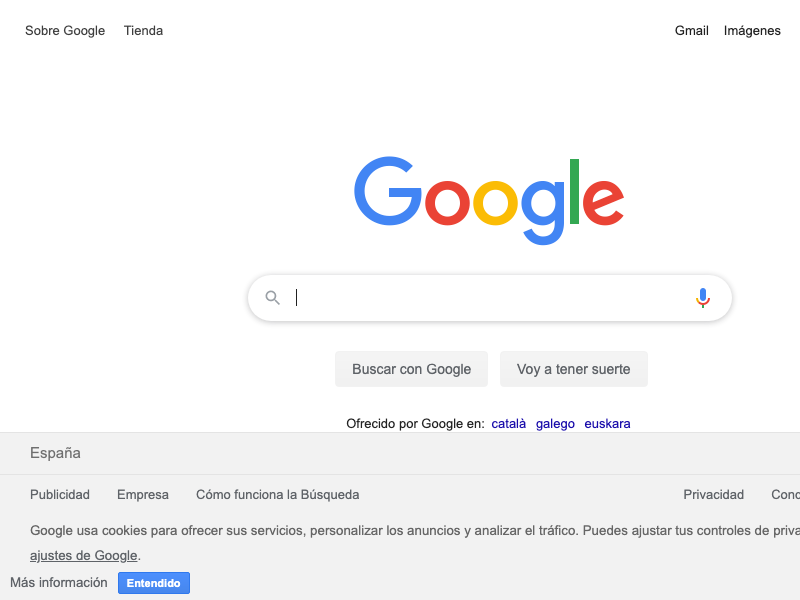
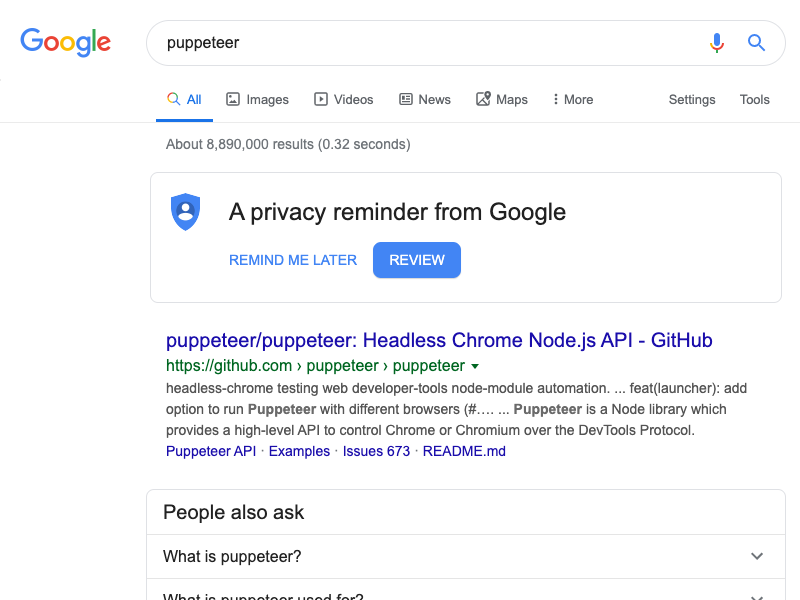
added puppeteerSearchResultsScreenshot function

diff --git a/index.js b/index.js
@@ -6,7 +6,10 @@ const {
 } = require("./imdb");
 const { login } = require("./toscrape");
 const { getInstagramUserJSON } = require("./instagram");
-const { puppeteerScreenshot } = require("./puppeteer");
+const {
+  puppeteerScreenshot,
+  puppeteerSearchResultsScreenshot
+} = require("./puppeteer");
 
 // const URLS = [
 //   "https://www.imdb.com/title/tt4047350/?ref_=nv_sr_srsg_0",
@@ -23,4 +26,9 @@ const { puppeteerScreenshot } = require("./puppeteer");
 
 // getInstagramUserJSON("willsmith").then(console.log);
 
-puppeteerScreenshot("www.google.com", "googleMainPage.png");
+puppeteerSearchResultsScreenshot(
+  "www.google.com",
+  "googlePuppeteerSearchResults.png",
+  'input[aria-label="Search"]',
+  "puppeteer"
+);

diff --git a/puppeteer/puppeteer.js b/puppeteer/puppeteer.js
@@ -9,6 +9,26 @@ const puppeteerScreenshot = async (url, fileName) => {
   await browser.close();
 };
 
+const puppeteerSearchResultsScreenshot = async (
+  url,
+  fileName,
+  selector,
+  inputValue
+) => {
+  const browser = await puppeteer.launch({ headless: false, devtools: true });
+
+  const page = await browser.newPage();
+  await page.goto(`https://${url}`);
+
+  await page.type(selector, inputValue, { delay: 100 });
+  await page.keyboard.press("Enter");
+  await page.waitForNavigation();
+  await page.screenshot({ path: `./puppeteer/screenshots/${fileName}` });
+
+  await browser.close();
+};
+
 module.exports = {
-  puppeteerScreenshot
+  puppeteerScreenshot,
+  puppeteerSearchResultsScreenshot
 };

diff --git a/puppeteer/index.js b/puppeteer/index.js
@@ -1,5 +1,9 @@
-const { puppeteerScreenshot } = require("./puppeteer");
+const {
+  puppeteerScreenshot,
+  puppeteerSearchResultsScreenshot
+} = require("./puppeteer");
 
 module.exports = {
-  puppeteerScreenshot
+  puppeteerScreenshot,
+  puppeteerSearchResultsScreenshot
 };
